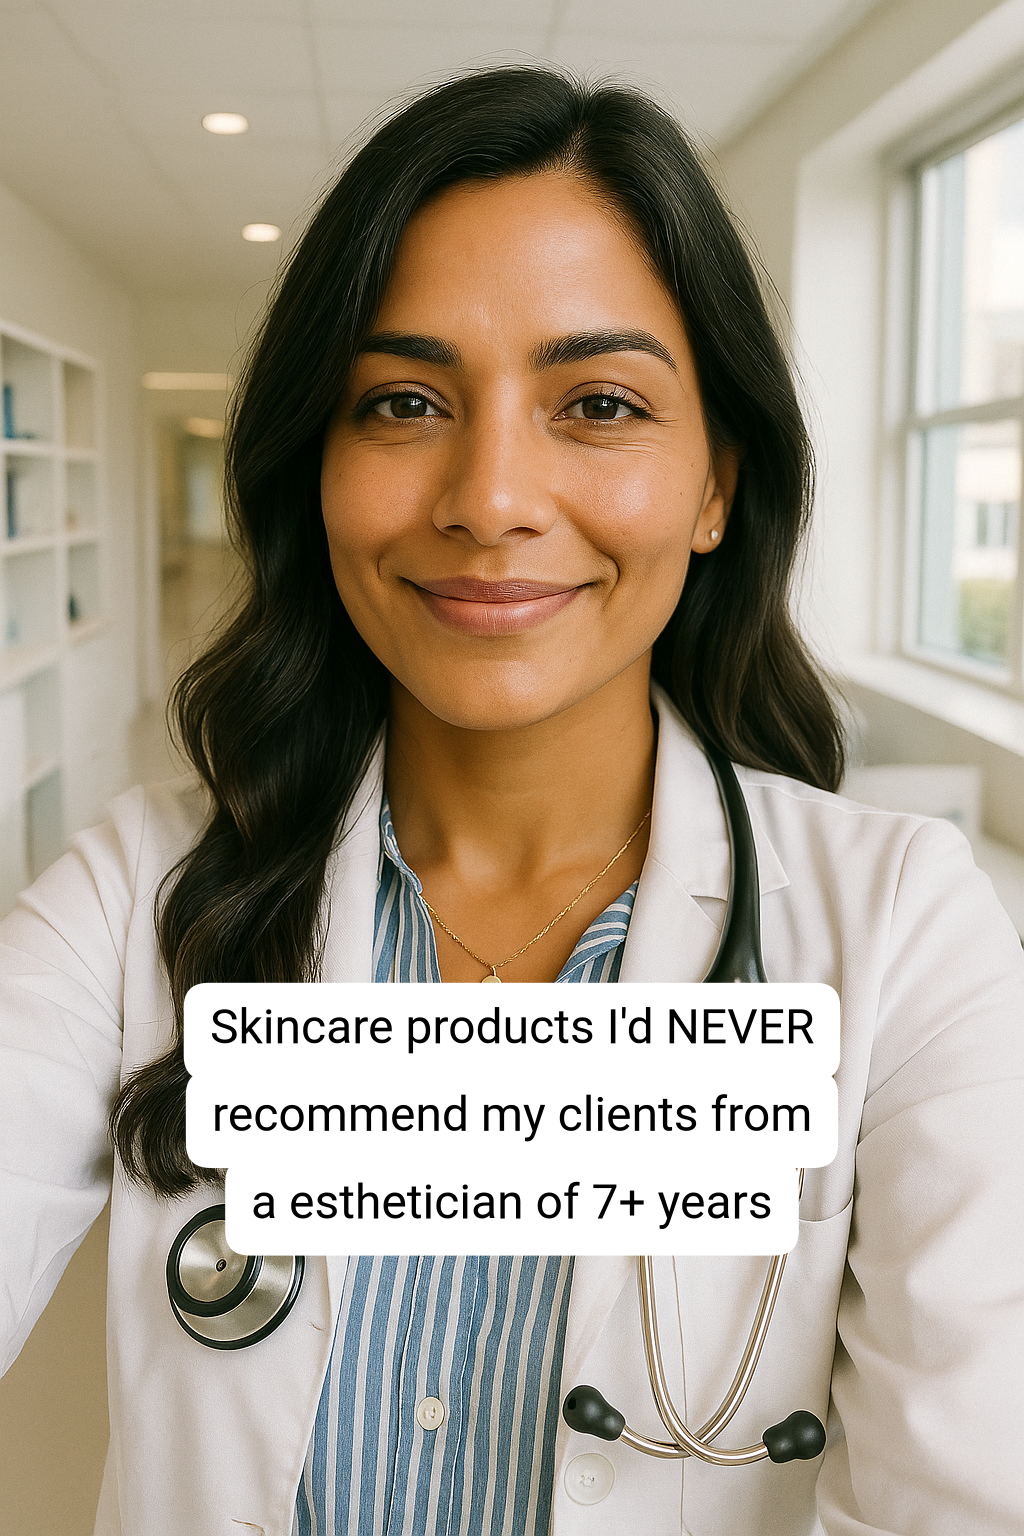
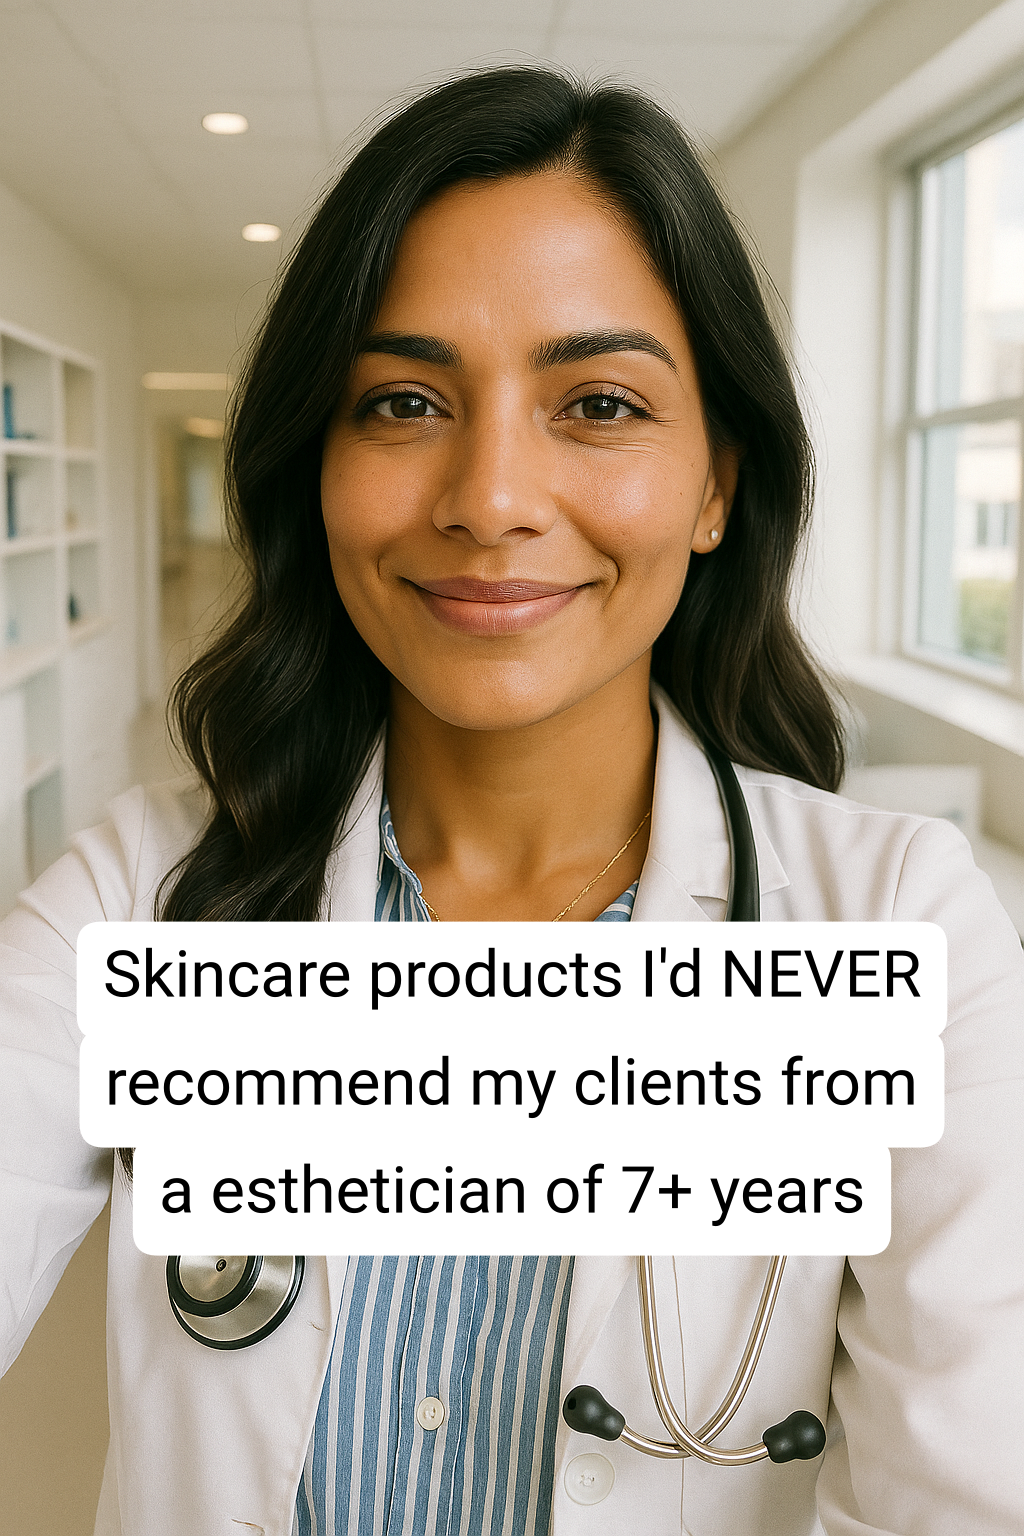
Update font size in TikTok text overlay test to improve text visibility and adjust output image accordingly.

Changed region(s): [[0.0625, 0.5938, 0.9375, 0.8438]]

diff --git a/text-overlay-test.js b/text-overlay-test.js
@@ -261,7 +261,7 @@ class TikTokTextOverlayTest {
       height: 1536,
 
       // Text styling (Custom Google Fonts)
-      fontSize: 48,
+      fontSize: 65, // Scaled to 1.35x (48 * 1.35 = 64.8, rounded to 65)
       fontFamily: "Roboto", // Using Roboto as default - clean, modern sans-serif
       fontWeight: "bold",
       textColor: "#000000",
